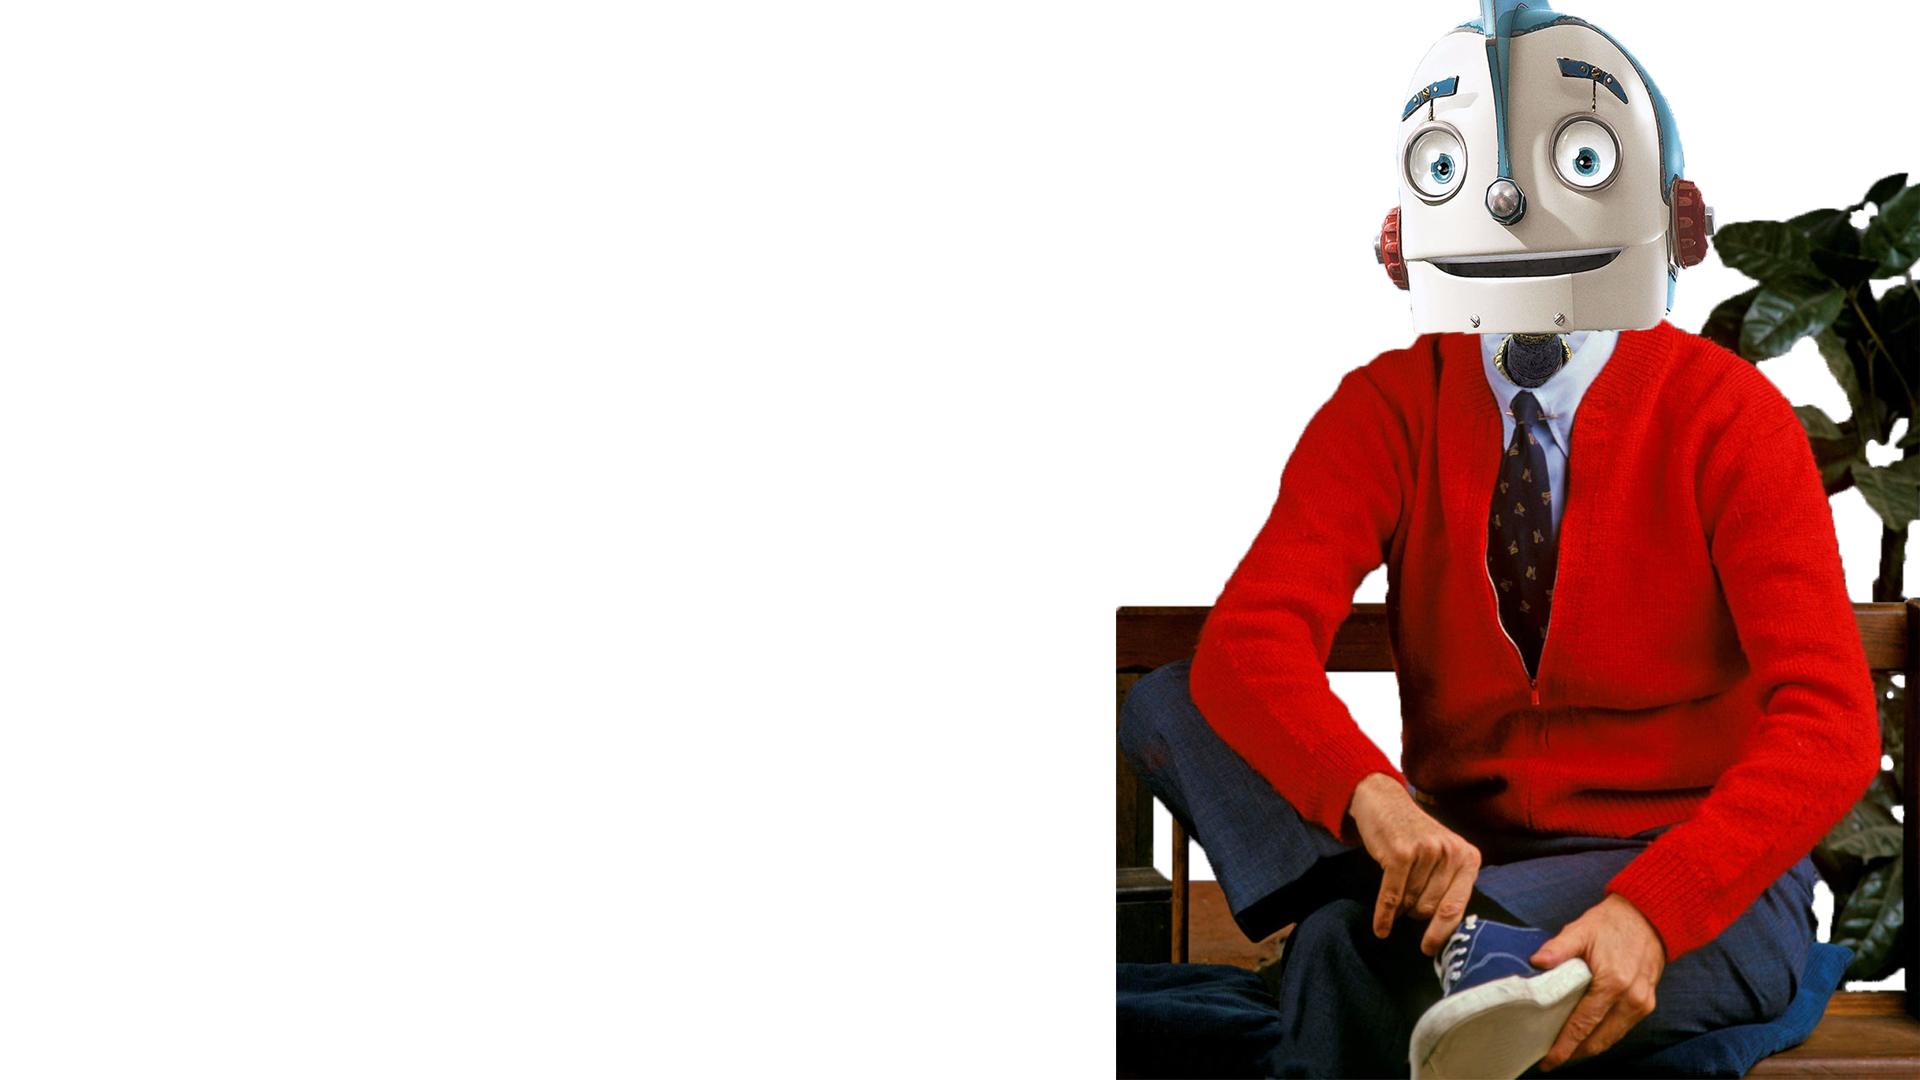
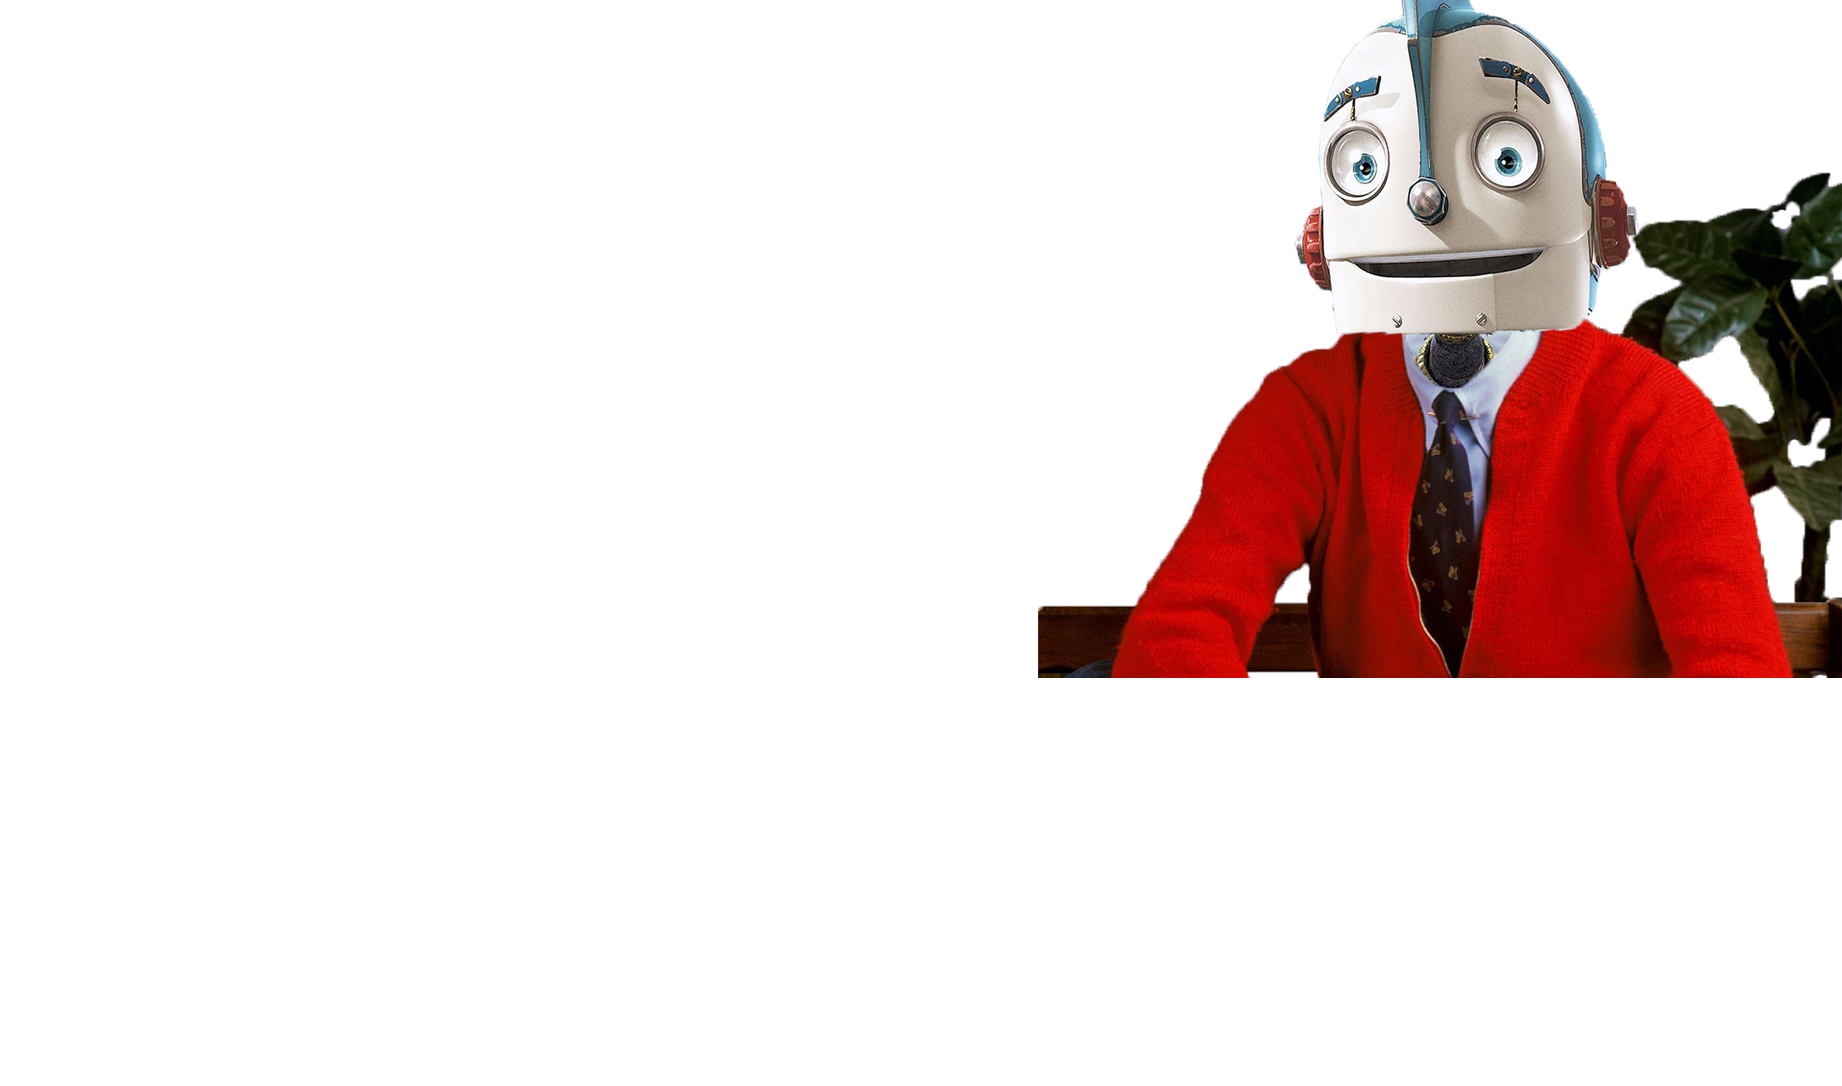
adjust inputRobo() to return without commas.

Changed region(s): [[0.557, 0.0, 1.0, 1.0], [0.9593, 0.4583, 1.0, 0.5806], [0.9593, 0.2444, 1.0, 0.275]]

diff --git a/css/styles.css b/css/styles.css
@@ -7,7 +7,7 @@ body {
   background-image: url(../img/roborogers2.png), linear-gradient(#1b64c3, #3aa8dd);
   background-repeat: no-repeat;
   background-size: cover;
-  background-position: fixed;
+  background-position: 0vw 0vh;
 }
 
 p {
@@ -61,7 +61,19 @@ input#input {
   width: 130px;
   padding: 4px;
   margin-left: 15vw;
-} 
+  box-shadow:  -5px 5px 5px rgba(97, 67, 88, 0.452), 5px -5px 5px rgba(97, 67, 78, 0.452);
+}
+
+.btn {
+  margin-left: 15vw;
+  background-color: rgba(187, 104, 104, 0.479);
+  border: 5px inset rgba(117, 65, 69, 0.7);
+  box-shadow: -5px 5px 5px 2px rgba(196, 82, 130, 0.226), -2px 2px 5px 5px inset rgba(102, 63, 78, 0.466);
+}
+
+.btn-block {
+  margin-left: 0vw;
+}
 
 .row {  
   justify-content: center;
@@ -85,4 +97,8 @@ input#input {
 
 #roboger p {
   line-height: 25px;
+}
+
+#house {
+  margin-left: -21vw;
 }

diff --git a/js/scripts.js b/js/scripts.js
@@ -12,7 +12,7 @@ function inputRobo(input) {
   const roboArray = [];
   stringArray.forEach(function(number) {
     if (number.includes(3)) {
-      roboArray.push("Won't you be my neighbor.?")
+      roboArray.push("Won't you be my neighbor?")
     } else if (number.includes(2)) {
       roboArray.push("Boop!")
     } else if (number.includes(1)) {
@@ -21,7 +21,7 @@ function inputRobo(input) {
       roboArray.push(number);
     }
   });
-  return roboArray.join(", ");
+  return roboArray.join(" ");
 }
 
 //UI Logic

diff --git a/index.html b/index.html
@@ -27,12 +27,12 @@
         <div class="col-3" id="user">
           <h3>You typed out:</h3>
           <p><span id="user1"></span></p>
+          <button id="refresh" onClick="window.location.reload();" class="btn btn-block">Try again!</button>
         </div>
         <div class="col-3" id="roboger">
           <h3>Here's what Mr. Roboger has to say!</h3>
           <div>
             <p><span id="roboger1"></span></p>
-          </div>
         </div>
       </div>
     </div>
